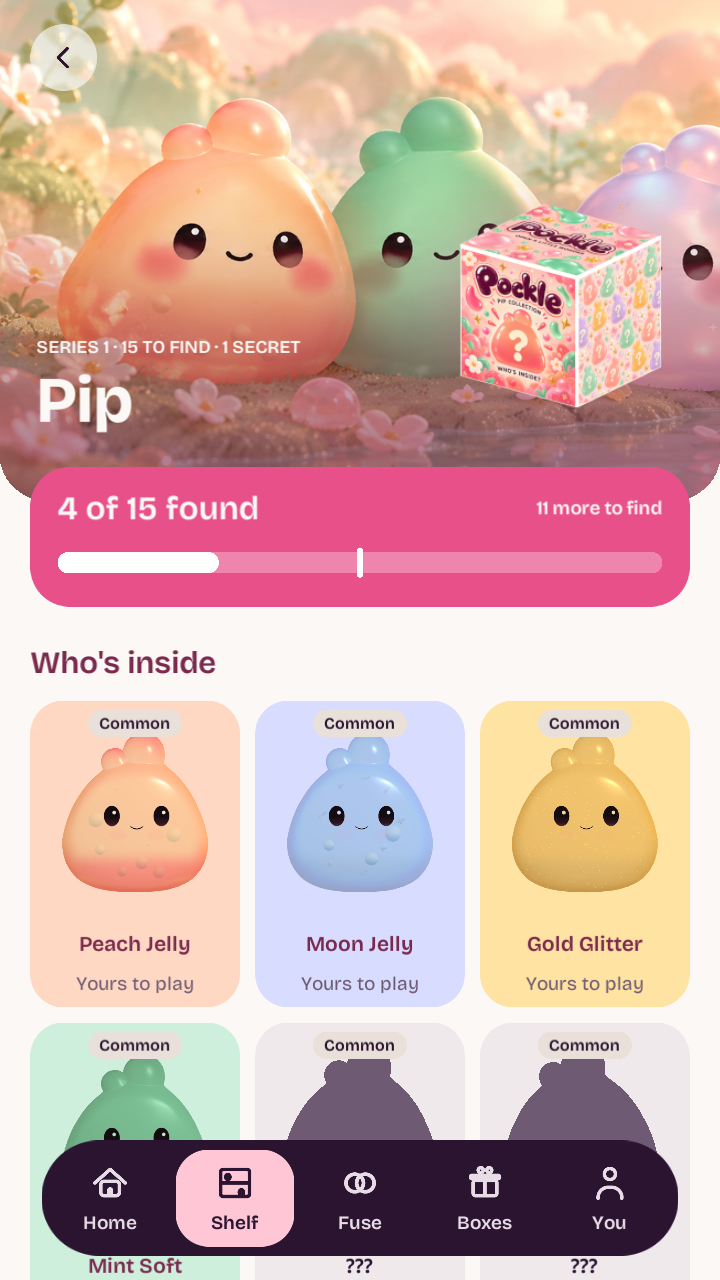
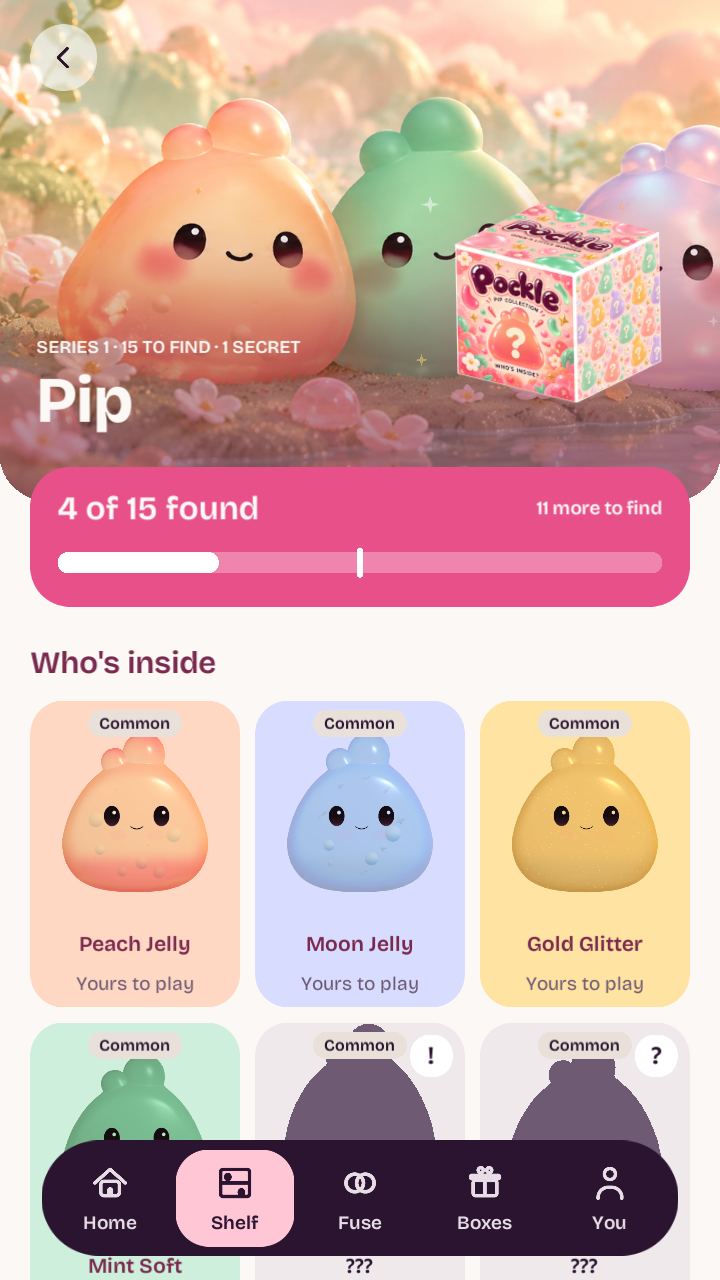
fix: preserve personalities across finish renames and verify rarity refresh

diff --git a/Assets/Pockle/Runtime/UI/PersonalityBook.cs b/Assets/Pockle/Runtime/UI/PersonalityBook.cs
@@ -157,7 +157,7 @@ namespace Pockle.Runtime
             var nature = NatureOf(toy.CharacterId);
             if (nature == null) return false;
             string finish = FinishName(toy);
-            Touch touch = touches.TryGetValue(toy.CharacterId + ":" + finish, out var authored) ? authored
+            Touch touch = touches.TryGetValue(toy.Id, out var authored) ? authored
                 : new Touch(Lower(finish) + " charm", "Its own " + Lower(finish) + " charm, on top of the " + nature.Name + " nature.", null, null);
             var reactions = new List<string>(nature.Reactions);
             if (touch.NightReaction != null) { reactions.Add("At night"); reactions.Add(touch.NightReaction); }
@@ -258,34 +258,32 @@ namespace Pockle.Runtime
             return nature;
         }
 
-        /// <summary>Each finish adds one trait (first draft, October 14; the owner may rename any line).</summary>
+        /// <summary>Traits are keyed by persistent toy ID so changing a color or display name cannot change personality.</summary>
         private static readonly Dictionary<string, Touch> touches = new Dictionary<string, Touch>
         {
-            ["fox:Honey"] = new Touch("cuddly", "Sweet and cuddly. Leans into a hug.", PersonalityMotionStyle.Calm, null),
-            ["fox:Pearl"] = new Touch("fancy", "Polite and a little fancy. Sits up straight.", PersonalityMotionStyle.Show, null),
-            ["fox:Rose Quartz"] = new Touch("shy", "Blushes easily and hides behind its tail.", PersonalityMotionStyle.Calm, null),
-            ["fox:Mochi"] = new Touch("sleepy", "Squishy and sleepy. First to nap.", PersonalityMotionStyle.Calm, null),
-            ["fox:Cloud"] = new Touch("daydreaming", "A daydreamer, always looking up.", PersonalityMotionStyle.Dream, null),
-            ["fox:Midnight"] = new Touch("night-owl", "Wide awake when everyone sleeps.", PersonalityMotionStyle.Dream, "Stays up watching"),
-            ["fox:Apricot"] = new Touch("bouncy", "Sunny and bouncy. Can't sit still.", PersonalityMotionStyle.Show, null),
-            ["fox:Classic"] = new Touch("brave", "The brave one. Leads the pack.", PersonalityMotionStyle.Curious, null),
-            ["fox:Copper"] = new Touch("proud", "Proud and shiny. Loves being seen.", PersonalityMotionStyle.Show, null),
-            ["fox:Aurora"] = new Touch("dreamy", "Night owl. Glows under the night lamp and on the night shelf.", PersonalityMotionStyle.Dream, "Glows and stargazes"),
-            ["pip:Starlight Glow"] = new Touch("starry", "Rare and starry. Glows softly in the dark.", PersonalityMotionStyle.Dream, "Glows like a star"),
-            ["pip:Boucle Plush"] = new Touch("snuggly", "Fuzzy and snuggly.", PersonalityMotionStyle.Calm, null),
-            ["pip:Bouclé Plush"] = new Touch("snuggly", "Fuzzy and snuggly.", PersonalityMotionStyle.Calm, null),
-            ["pip:Velvet Flock"] = new Touch("elegant", "Velvety and elegant.", PersonalityMotionStyle.Show, null),
-            ["pip:Gloss Vinyl"] = new Touch("bold", "Shiny and bold.", PersonalityMotionStyle.Show, null),
-            ["pip:Matte Vinyl"] = new Touch("chill", "Laid-back and chill.", PersonalityMotionStyle.Calm, null),
-            ["pip:Coated Metallic"] = new Touch("brave", "Metallic and brave.", PersonalityMotionStyle.Curious, null),
-            ["axolotl:Boucle Plush"] = new Touch("cuddly", "Fuzzy, soft and cuddly.", PersonalityMotionStyle.Calm, null),
+            ["fox.clear-jelly"] = new Touch("cuddly", "Sweet and cuddly. Leans into a hug.", PersonalityMotionStyle.Calm, null),
+            ["fox.pearl-jelly"] = new Touch("fancy", "Polite and a little fancy. Sits up straight.", PersonalityMotionStyle.Show, null),
+            ["fox.confetti-gel"] = new Touch("shy", "Blushes easily and hides behind its tail.", PersonalityMotionStyle.Calm, null),
+            ["fox.mochi-foam"] = new Touch("sleepy", "Squishy and sleepy. First to nap.", PersonalityMotionStyle.Calm, null),
+            ["fox.velvet-flock"] = new Touch("daydreaming", "A daydreamer, always looking up.", PersonalityMotionStyle.Dream, null),
+            ["fox.boucle-plush"] = new Touch("night-owl", "Wide awake when everyone sleeps.", PersonalityMotionStyle.Dream, "Stays up watching"),
+            ["fox.matte-vinyl"] = new Touch("bouncy", "Sunny and bouncy. Can't sit still.", PersonalityMotionStyle.Show, null),
+            ["fox.gloss-vinyl"] = new Touch("brave", "The brave one. Leads the pack.", PersonalityMotionStyle.Curious, null),
+            ["fox.coated-metallic"] = new Touch("proud", "Proud and shiny. Loves being seen.", PersonalityMotionStyle.Show, null),
+            ["fox.glow-jelly"] = new Touch("dreamy", "Night owl. Glows under the night lamp and on the night shelf.", PersonalityMotionStyle.Dream, "Glows and stargazes"),
+            ["pip.glow-jelly"] = new Touch("starry", "Rare and starry. Glows softly in the dark.", PersonalityMotionStyle.Dream, "Glows like a star"),
+            ["pip.boucle-plush"] = new Touch("snuggly", "Fuzzy and snuggly.", PersonalityMotionStyle.Calm, null),
+            ["pip.velvet-flock"] = new Touch("elegant", "Velvety and elegant.", PersonalityMotionStyle.Show, null),
+            ["pip.gloss-vinyl"] = new Touch("bold", "Shiny and bold.", PersonalityMotionStyle.Show, null),
+            ["pip.matte-vinyl"] = new Touch("chill", "Laid-back and chill.", PersonalityMotionStyle.Calm, null),
+            ["pip.coated-metallic"] = new Touch("brave", "Metallic and brave.", PersonalityMotionStyle.Curious, null),
             // First drafts, October 15 (personality system): one toy per temperament the characters don't cover yet.
-            ["axolotl:Blossom Plush"] = new Touch("cuddly", "Fuzzy, soft and cuddly.", PersonalityMotionStyle.Calm, null),
-            ["axolotl:Rose Glitter"] = new Touch("shy", "Shy and sparkly. Hides behind its frills.", PersonalityMotionStyle.Calm, null),
-            ["axolotl:Sky Matte"] = new Touch("grumpy", "Grumpy when woken up. Secretly loves a cuddle.", PersonalityMotionStyle.Calm, null),
-            ["axolotl:Coral Gloss"] = new Touch("cheeky", "Cheeky. Blows bubbles at its neighbours.", PersonalityMotionStyle.Show, null),
-            ["axolotl:Biolume Glow"] = new Touch("glowy", "Glows softly and gazes at the stars.", PersonalityMotionStyle.Dream, "Glows in the dark"),
-            ["snowy:Coated Metallic"] = new Touch("frosty", "Frosty at first. Warms up to its friends.", PersonalityMotionStyle.Calm, null)
+            ["axolotl.boucle-plush"] = new Touch("cuddly", "Fuzzy, soft and cuddly.", PersonalityMotionStyle.Calm, null),
+            ["axolotl.confetti-gel"] = new Touch("shy", "Shy and sparkly. Hides behind its frills.", PersonalityMotionStyle.Calm, null),
+            ["axolotl.matte-vinyl"] = new Touch("grumpy", "Grumpy when woken up. Secretly loves a cuddle.", PersonalityMotionStyle.Calm, null),
+            ["axolotl.gloss-vinyl"] = new Touch("cheeky", "Cheeky. Blows bubbles at its neighbours.", PersonalityMotionStyle.Show, null),
+            ["axolotl.glow-jelly"] = new Touch("glowy", "Glows softly and gazes at the stars.", PersonalityMotionStyle.Dream, "Glows in the dark"),
+            ["snowy.coated-metallic"] = new Touch("frosty", "Frosty at first. Warms up to its friends.", PersonalityMotionStyle.Calm, null)
         };
 
         /// <summary>A finish's name without its rarity suffix ("Aurora · Super rare" is "Aurora").</summary>

diff --git a/Assets/Pockle/Runtime/Core/ToyCatalog.cs b/Assets/Pockle/Runtime/Core/ToyCatalog.cs
@@ -47,7 +47,7 @@ namespace Pockle.Core
         /// <summary>The character collection; membership does not grant art availability or reward eligibility.</summary>
         public string CollectionId { get; }
         public CatalogColor SwatchColor => FusionCatalog.TryGet(Id, out var fused) ? FusionCatalog.Swatch(fused) : ToyCatalog.FinishSwatch(Id, FinishId);
-        /// <summary>Derived from the character collection's explicit secret identity.</summary>
+        /// <summary>Explicit rarity metadata, independent of discovery, ownership and display names.</summary>
         public ToyTier Tier => RosterFinishDesign.Tier(Id, CharacterId, FinishId, CollectionId);
         public bool IsSecret => ToyCatalog.TryGetCollection(CollectionId, out var collection) && collection.SecretId == Id;
         internal CollectibleDefinition(string id, CharacterDefinition character, FinishDefinition finish,
@@ -163,9 +163,6 @@ namespace Pockle.Core
             foreach (var character in characters) charactersById.Add(character.Id, character);
             foreach (var finish in finishes) finishesById.Add(finish.Id, finish);
             var collectibles = new List<CollectibleDefinition>(characters.Length * finishes.Length);
-            string[] pipLabels = { "Peach Jelly", "Moon Jelly", "Gold Glitter", "Mint Soft" };
-            string[] axolotlLabels = { "Honey Jelly", "Pearl", "Rose Glitter", "Mint Mochi", "Lavender Flock", "Blossom Plush", "Sky Matte", "Coral Gloss", "Copper", "Biolume Glow · Ultra rare" };
-            string[] foxLabels = { "Honey", "Pearl", "Rose Quartz", "Mochi", "Cloud", "Midnight", "Apricot", "Classic", "Copper", "Aurora · Super rare" };
             foreach (var character in characters)
             {
                 for (int index = 0; index < finishes.Length; index++)

diff --git a/Assets/Pockle/Tests/PlayMode/CollectionUiTests.cs b/Assets/Pockle/Tests/PlayMode/CollectionUiTests.cs
@@ -269,6 +269,18 @@ namespace Pockle.Tests
             Assert.IsTrue(targets.Any(target => !target.IsCreated()), "Disposal must release native live targets.");
         }
 
+        [Test]
+        public void RenamedFinishesKeepTheirAuthoredPersonality()
+        {
+            string[] ids = { "fox.clear-jelly", "fox.glow-jelly", "pip.gloss-vinyl", "axolotl.confetti-gel", "snowy.coated-metallic" };
+            string[] traits = { "Cuddly", "Dreamy", "Bold", "Shy", "Frosty" };
+            for (int i = 0; i < ids.Length; i++)
+            {
+                Assert.IsTrue(PersonalityBook.TryGet(ids[i], out var personality));
+                Assert.AreEqual(traits[i], personality.TouchTrait, ids[i]);
+            }
+        }
+
         [UnityTest]
         public IEnumerator AllHiddenSlotsDiscloseRarityWithoutRevealingTheToy()
         {

diff --git a/docs/handoffs/codex.md b/docs/handoffs/codex.md
@@ -1026,3 +1026,12 @@ Portable full Core suite passes (all existing IDs/ownership, 9/3/2/1 per collect
 Separate final6/6 native checks pass: hidden-slot rarity/identity concealment, real collection UI capture, Pip Secret→ordinary/fusion state reset, Calm-aware Secret clock, all-known-ID rarity binding and unchanged Wally pilot material/Calm behavior. Initial53/54 and later57/58 broad runs retained in /private/tmp/pockle-roster-ui-tests.xml and pockle-roster-ui-final.xml; final6 /private/tmp/pockle-roster-focused-final.xml. Transient Unity InitTestScene caused two source GUID errors when source checking overlapped tests; rerun after Unity cleanup is clean. Automatic settings/modelmeta changes restored.
 **Pending lane request / owner approval:** authored `Runtime/UI/PersonalityBook.cs` indexes touches by display name. Requested owner's additional exception to key22 existing touch records by stable collectible ID, remove2 obsolete duplicate aliases, preserving traits/reaction/motion while palettes/names change. Exact prepared patch /private/tmp/pockle-personality-stable-id.patch; file is untouched until that permission (or Claude implementation). Existing permission covered collection HUD/tests, not PersonalityBook. Need rerun failing native personality test after correction.
 No phone build/install, main merge, hosted CI or backend catalog change claimed. Live paid quotes/stock remain old115 lineup; reconcile165 roster and real tiers transactionally only after design acceptance before deployment. Prices/products/edition caps unaffected. Owner-only fusion spare grant explicitly excludes additive IDs so existing18-target grant remains bounded/idempotent. Existing save format/IDs/fusion references retained.
+
+
+## November8 — owner approved stable-ID personality correction
+Owner explicitly authorizes Runtime/UI/PersonalityBook.cs beyond the earlier collection HUD/test exception. Applied prepared patch:22 authored touch entries now use persistent collectible IDs, with2 unused legacy spelling aliases removed. Traits, motions, voice and reactions unchanged; display names remain free to change. Added RenamedFinishesKeepTheirAuthoredPersonality regression covering Fox/Pip/Axolotl/Snowy. Rerunning full native59-case suite. One preliminary test run was terminated after noticing the patch path-prefix mistake, then source application was verified before the clean rerun. No result claimed for the aborted run.
+
+
+## November8 — roster rarity refresh checks complete; visual review ready
+Owner approved PersonalityBook scope and stable-ID trait mapping is applied. Final native59/59 passed, zero skipped/failed: CollectionUiTests, CheckoutUiTests, BoxRevealUiTests, WallyPilotTests and RosterFinishTests. `/private/tmp/pockle-roster-complete.xml`, log same stem. Includes five renamed-finish authored-trait cases, all hidden Firb slots disclose exact rarity with no face/finish/ownership leak, Calm freezes new Secret clocks, Pip switching clears edition overlays, and Wally compatibility. Earlier57/58 real personality failure is resolved without weakening the Dreamy assertion. Full portable suite passed at `/private/tmp/pockle-roster-core-complete.log`. Only cleanup after passing tests: removed unused legacy label local arrays and corrected a Core XML comment.
+Review at `docs/roster-finish-review/02/index.html` is mirrored to owner workspace;11 sheets/all165 native images, eleven Secret comparison and actual collection screenshots. Display-name changes no longer alter authored personality records. Existing toy IDs/save format/fusions retained, and bounded review grants unchanged. Source/settings/meta cleanup and final diff checks performed. No main merge, phone install, Android packaging, hosted CI or live paid/walking stock rollout. Live stock/odds reconciliation and phone/performance acceptance remain a release gate after design review.

diff --git a/docs/VALIDATION.md b/docs/VALIDATION.md
@@ -731,3 +731,8 @@ Portable full Core suite passes (all existing IDs/ownership, 9/3/2/1 per collect
 Separate final6/6 native checks pass: hidden-slot rarity/identity concealment, real collection UI capture, Pip Secret→ordinary/fusion state reset, Calm-aware Secret clock, all-known-ID rarity binding and unchanged Wally pilot material/Calm behavior. Initial53/54 and later57/58 broad runs retained in /private/tmp/pockle-roster-ui-tests.xml and pockle-roster-ui-final.xml; final6 /private/tmp/pockle-roster-focused-final.xml. Transient Unity InitTestScene caused two source GUID errors when source checking overlapped tests; rerun after Unity cleanup is clean. Automatic settings/modelmeta changes restored.
 **Pending lane request / owner approval:** authored `Runtime/UI/PersonalityBook.cs` indexes touches by display name. Requested owner's additional exception to key22 existing touch records by stable collectible ID, remove2 obsolete duplicate aliases, preserving traits/reaction/motion while palettes/names change. Exact prepared patch /private/tmp/pockle-personality-stable-id.patch; file is untouched until that permission (or Claude implementation). Existing permission covered collection HUD/tests, not PersonalityBook. Need rerun failing native personality test after correction.
 No phone build/install, main merge, hosted CI or backend catalog change claimed. Live paid quotes/stock remain old115 lineup; reconcile165 roster and real tiers transactionally only after design acceptance before deployment. Prices/products/edition caps unaffected. Owner-only fusion spare grant explicitly excludes additive IDs so existing18-target grant remains bounded/idempotent. Existing save format/IDs/fusion references retained.
+
+
+## November8 — roster rarity refresh checks complete; visual review ready
+Owner approved PersonalityBook scope and stable-ID trait mapping is applied. Final native59/59 passed, zero skipped/failed: CollectionUiTests, CheckoutUiTests, BoxRevealUiTests, WallyPilotTests and RosterFinishTests. `/private/tmp/pockle-roster-complete.xml`, log same stem. Includes five renamed-finish authored-trait cases, all hidden Firb slots disclose exact rarity with no face/finish/ownership leak, Calm freezes new Secret clocks, Pip switching clears edition overlays, and Wally compatibility. Earlier57/58 real personality failure is resolved without weakening the Dreamy assertion. Full portable suite passed at `/private/tmp/pockle-roster-core-complete.log`. Only cleanup after passing tests: removed unused legacy label local arrays and corrected a Core XML comment.
+Review at `docs/roster-finish-review/02/index.html` is mirrored to owner workspace;11 sheets/all165 native images, eleven Secret comparison and actual collection screenshots. Display-name changes no longer alter authored personality records. Existing toy IDs/save format/fusions retained, and bounded review grants unchanged. Source/settings/meta cleanup and final diff checks performed. No main merge, phone install, Android packaging, hosted CI or live paid/walking stock rollout. Live stock/odds reconciliation and phone/performance acceptance remain a release gate after design review.

diff --git a/docs/ROSTER_RARITY_REFRESH.md b/docs/ROSTER_RARITY_REFRESH.md
@@ -29,3 +29,7 @@ The review gallery at `roster-finish-review/02/index.html` includes all 165 nati
 This is an isolated local design/runtime branch, not a store rollout. Live purchase catalog/odds and finite supply records still describe the previous lineup. They must be reconciled transactionally with the approved new designs before a paid or walking reward rollout. No new prices, products, draw weights, edition caps or backend grants are introduced by this branch. The checkout continues to disclose the server's eligible outcomes; it must never claim that the new visual lineup has already entered live paid stock.
 
 Existing owned IDs and fusion references remain loadable; there is no save-format change, renaming or deletion of owned IDs. New IDs use existing handling profiles. No new network requests or AI calls occur during tactile play.
+
+## Verification
+
+Final native59/59 UI/material checks passed; full Core and source checks passed. Authored personality records are keyed by stable toy ID, preserving traits across the renamed finishes. Native gallery captures are165/165. Not installed on phones; live stock/odds reconciliation and device performance/visual acceptance remain pending.

diff --git a/docs/ARCHITECTURE.md b/docs/ARCHITECTURE.md
@@ -205,3 +205,5 @@ The existing walking tracker now supports iOS through a local CMPedometer Object
 
 ## November 8 — full roster rarity designs (local review branch)
 `RosterFinishDesign` supplies the 15-slot ladder and collection-specific pigments/Secret identities. `RosterFinishMaterial` applies a shared, local `CollectionEdition.cginc` layer over each existing character shader, preserving Wally's separate approved shader. `JellyToy.EditionMotion` provides a local clock that freezes in Calm; edition state resets when Pip changes to an ordinary finish or fusion. Rarity is explicit Core metadata and the collection HUD shows all four tier labels on discovered and undiscovered slots. Existing IDs and fusion references survive; no save-version change. See `ROSTER_RARITY_REFRESH.md` for the boundary between the local 165-finish roster and unchanged live paid stock.
+
+November8 follow-up: PersonalityBook authored touch records now use stable collectible IDs instead of display labels; finish renames do not change traits, motions or reactions. Owner approved this narrow shared-lane correction.

diff --git a/docs/roster-finish-review/02/README.md b/docs/roster-finish-review/02/README.md
@@ -2,4 +2,4 @@
 
 Native165-finish local design captures; all previous IDs retained. `index.html` opens the full gallery. `sheets/` contains each collection; `secrets.jpg` compares Secret identities. Hidden mode is a review aid; `ui/` contains actual model-silhouette HUD captures.
 
-This is not a released build. Core/source checks pass; native broad run57/58 passes, with an unresolved display-name-driven personality lookup regression awaiting the owner/Claude lane exception. Focused6/6 badge/capture/material/Calm/Wally checks pass. See `../../ROSTER_RARITY_REFRESH.md` and the Codex handoff for exact evidence and the unchanged live stock boundary.
+Core and source checks pass; native59/59 UI/material checks pass, including stable-ID personality preservation, hidden rarity disclosure, Calm and material switching. This is not a released or phone-installed build. See `../../ROSTER_RARITY_REFRESH.md` and Codex handoff for exact evidence and the unchanged live stock boundary.
